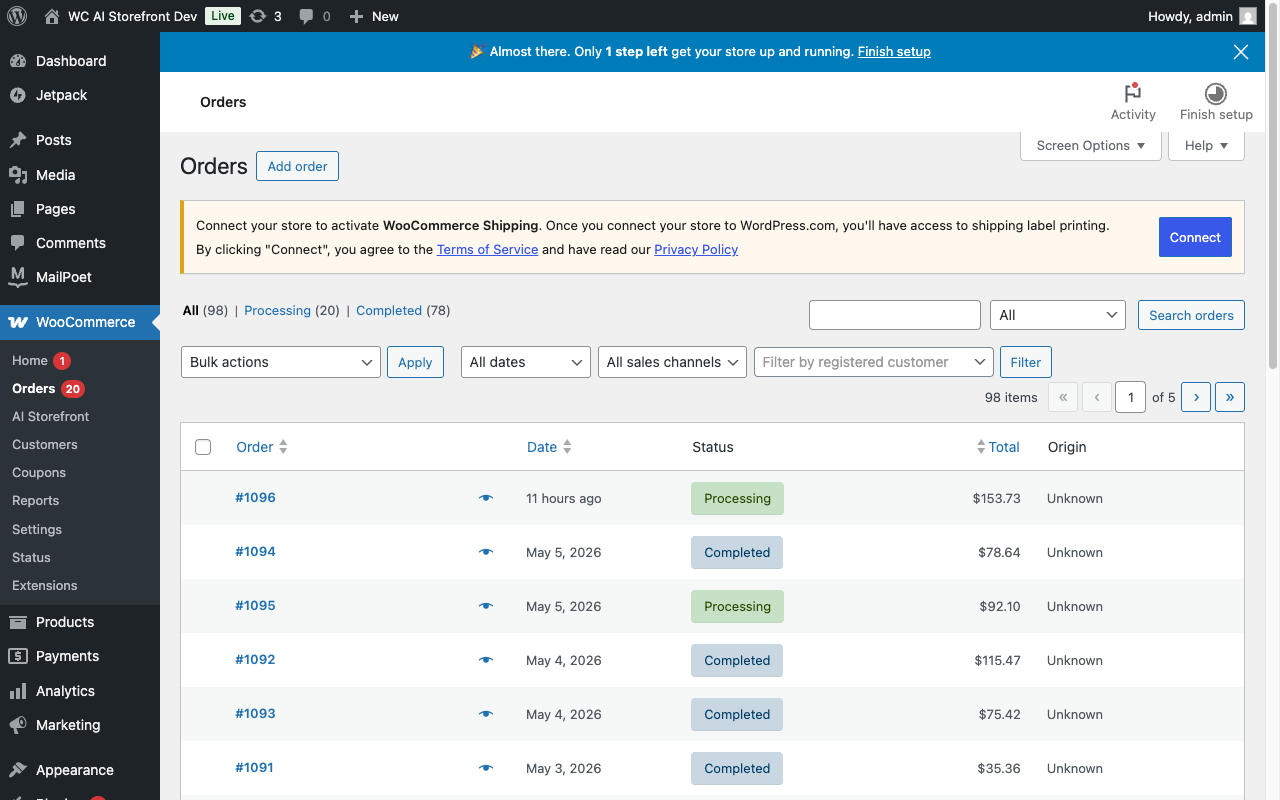
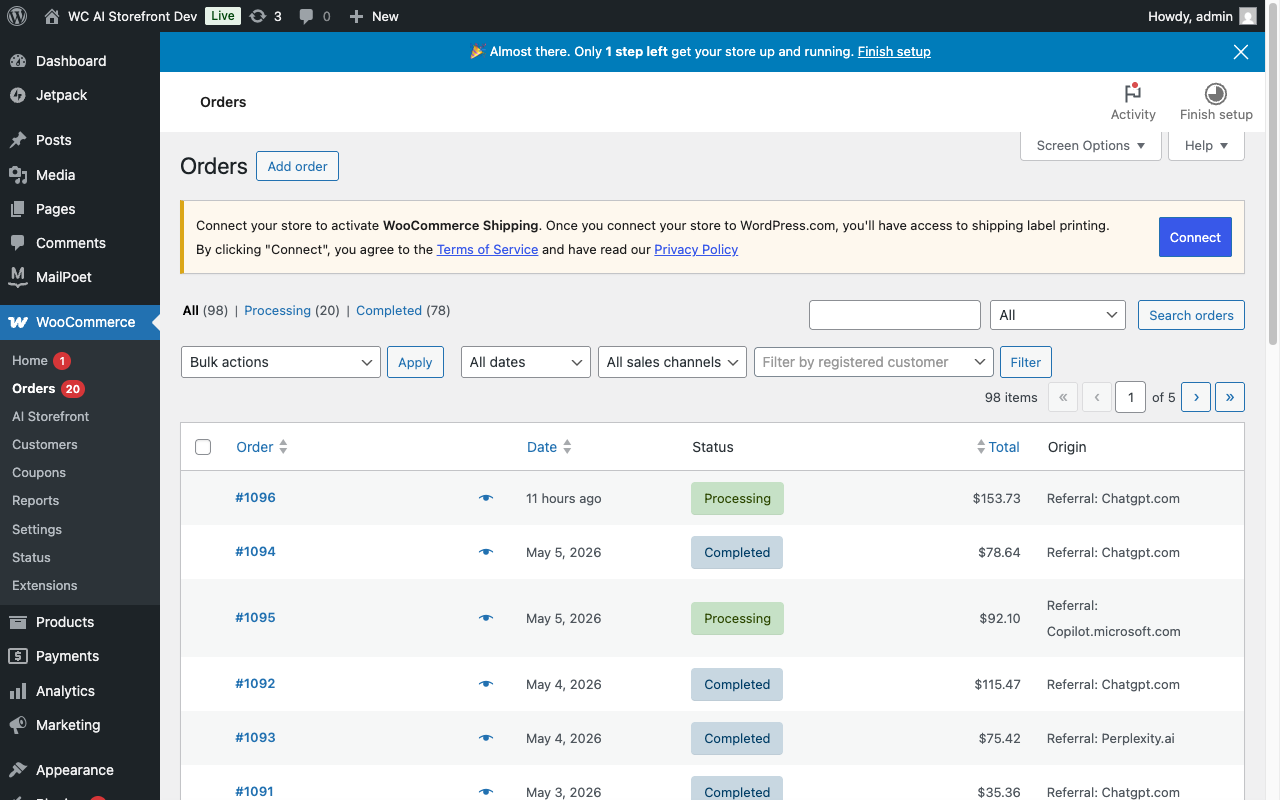
docs(user-guide): split policies screenshots; fix order origin display
- Add 07b-handling-time.png for the Shipping / handling time section
- Retake 07-policies-tab.png to show only the Return & refund section
- Retake 10-orders-origin.png — Origin column now shows "Referral" after
  adding _wc_order_attribution_source_type=referral to seeded orders
- Update USER-GUIDE.md to embed each screenshot directly below its section
- Update screenshots/README.md manifest and viewport note

diff --git a/docs/user-guide/screenshots/README.md b/docs/user-guide/screenshots/README.md
@@ -1,6 +1,6 @@
 # Screenshot manifest
 
-The PNG files in this folder are referenced from [`USER-GUIDE.md`](../USER-GUIDE.md). They were captured from a live WordPress 6.7 + WooCommerce 9.9 + AI Storefront 0.6.3 install ("Piero's Fashion House") at 1372 px wide, default WordPress admin color scheme.
+The PNG files in this folder are referenced from [`USER-GUIDE.md`](../USER-GUIDE.md). They were captured from a live WordPress + WooCommerce + AI Storefront install at a **1280×800** viewport (laptop size), default WordPress admin color scheme.
 
 | File | Source page | What it shows |
 |------|-------------|---------------|
@@ -10,7 +10,8 @@ The PNG files in this folder are referenced from [`USER-GUIDE.md`](../USER-GUIDE
 | `04-products-by-taxonomy.png` | **AI Storefront → Product Visibility** | "Products by category, tag, or brand" mode with category checkboxes and selected tokens visible. |
 | `05-products-selected.png` | Same screen | "Specific products only" mode with the product picker visible. |
 | `06-discovery-tab.png` | **AI Storefront → Discovery** | Crawler checkboxes (live browsing / training / test groups) and the rate-limit control. |
-| `07-policies-tab.png` | **AI Storefront → Policies** | Return policy mode picker. |
+| `07-policies-tab.png` | **AI Storefront → Policies** | Return & refund policy section: mode picker, policy page, fees, window, and return methods. |
+| `07b-handling-time.png` | Same screen (scrolled) | Shipping section: min/max handling time steppers. |
 | `08-product-final-sale.png` | **Products → Edit a product → Inventory tab** | The Product Data box with the "AI: Final sale" checkbox visible at the bottom. |
 | `09-endpoints-info.png` | **AI Storefront → Discovery** | The "Discovery Endpoints" card listing `/llms.txt`, `/.well-known/ucp`, the UCP API base, and `/robots.txt`. |
 | `10-orders-origin.png` | **WooCommerce → Orders** | Orders list with the Origin column showing AI-agent sources alongside Direct/Unknown rows. |

diff --git a/docs/user-guide/USER-GUIDE.md b/docs/user-guide/USER-GUIDE.md
@@ -220,11 +220,11 @@ Stats refresh on every rollup run (hourly by default), so today's traffic appear
 
 The **Policies** tab publishes structured signals that AI agents read when deciding what to show shoppers: return terms, shipping timelines, and more. Two cards are currently available.
 
-![Store policies tab](screenshots/07-policies-tab.png)
-
 ### Return & refund policy
 
 AI agents that surface your products often try to display return windows inline ("Free returns for 30 days").
+
+![Return & refund policy section](screenshots/07-policies-tab.png)
 
 Three modes:
 
@@ -243,6 +243,8 @@ Some merchants have a generally returnable catalog with specific final-sale item
 ### Shipping: handling time
 
 AI agents that compare products often surface shipping timelines ("Ships in 1–2 business days"). The **Shipping** card lets you declare your order handling time so agents can read it as structured data rather than guessing from free-text descriptions.
+
+![Shipping handling time section](screenshots/07b-handling-time.png)
 
 Set **Minimum** and **Maximum** business days using the stepper inputs (0–365). When both are greater than 0, the plugin emits a `handlingTime` block under `OfferShippingDetails` in the product JSON-LD.
 
